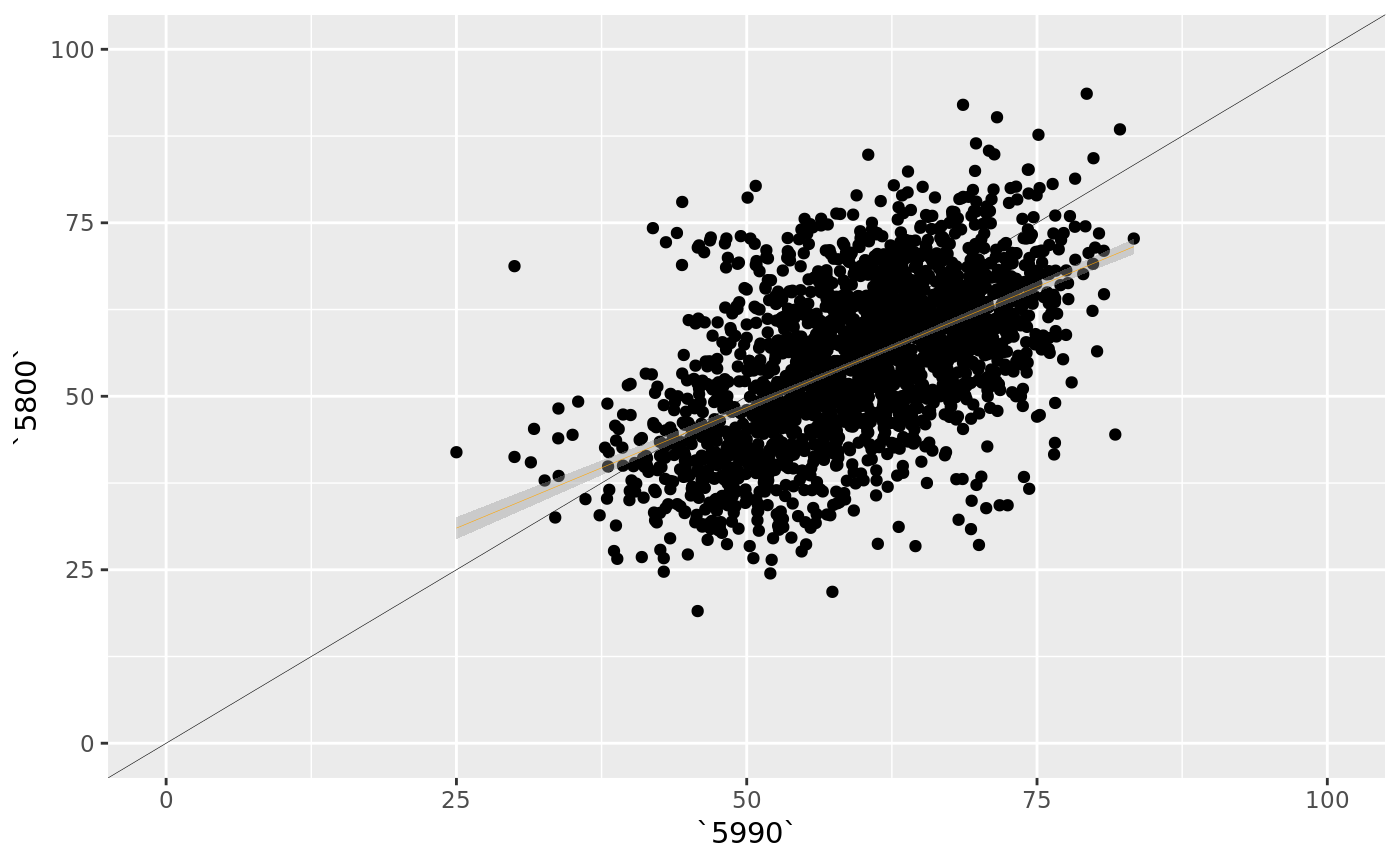
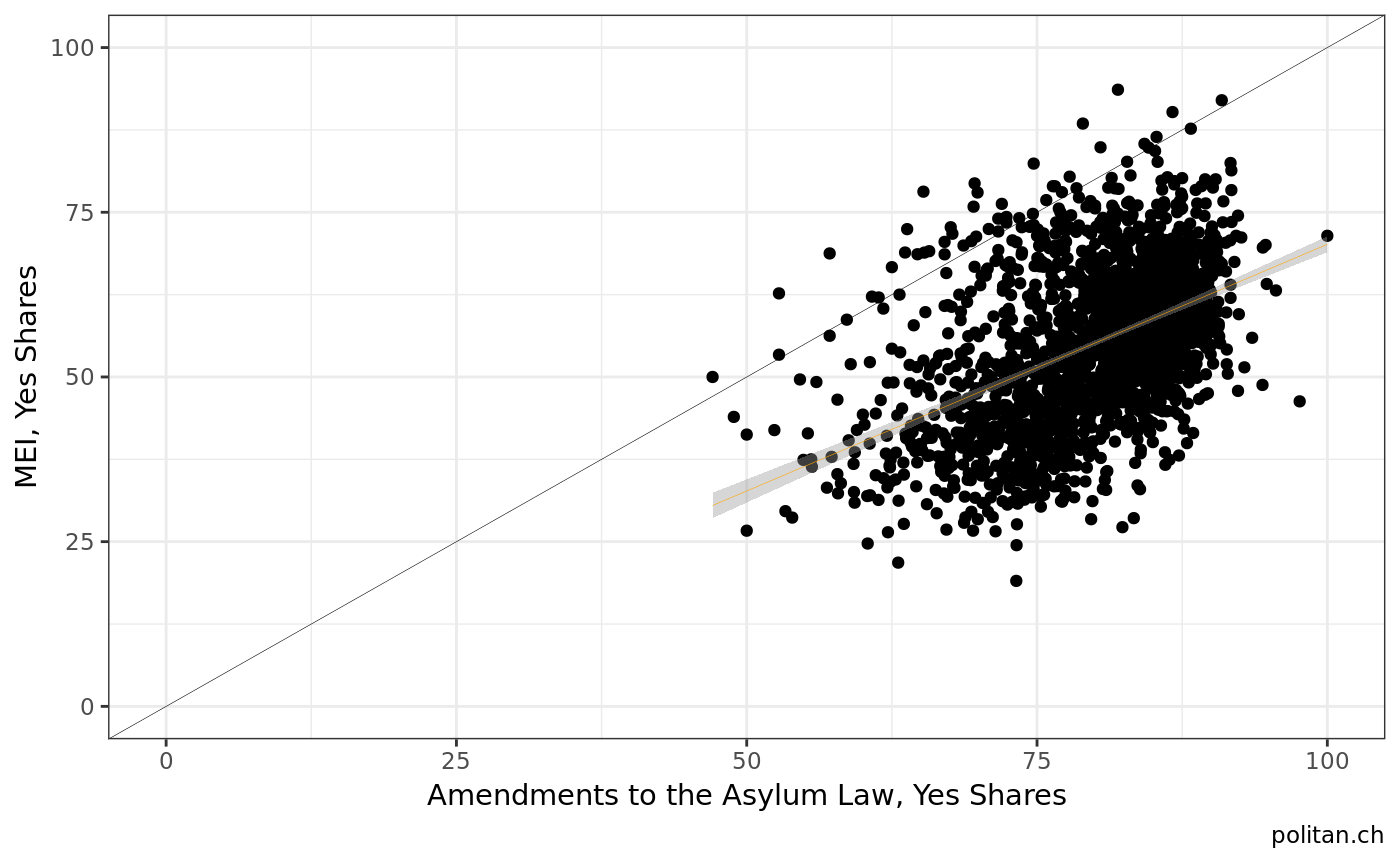
minor corrections

diff --git a/docs/articles/plot_correlations.html b/docs/articles/plot_correlations.html
@@ -43,7 +43,7 @@
       </button>
       <span class="navbar-brand">
         <a class="navbar-link" href="../index.html">swissdd</a>
-        <span class="version label label-default" data-toggle="tooltip" data-placement="bottom" title="Released version">1.0.2</span>
+        <span class="version label label-default" data-toggle="tooltip" data-placement="bottom" title="Released version">1.0.2.9000</span>
       </span>
     </div>
 
@@ -117,8 +117,8 @@
 <h3 class="hasAnchor">
 <a href="#what-other-votes-correlate-with-the-2014-vote-on-immigration-mei" class="anchor"></a>What Other Votes Correlate with the 2014 vote on immigration (mei)?</h3>
 <p>For the sake of illustration we are interested in the result of the 2014 vote on immigration for Swiss municipalities. The initiative was voted upon on 9th of February 2014. There are different ways to find this exact vote. One of them is using the information in the title. An other solution would be to look up the <code>id</code> provided by the FSO.</p>
-<p>First, we invoke the necessary packages and use the function <code>get_nationalvotes</code> to access the data. We further specify the unit of analysis as well as the range</p>
 <p><code><a href="https://rdrr.io/r/base/unique.html">unique(federalvotes$name[grep("Massen", federalvotes$name)])</a></code></p>
+<p>First, we invoke the necessary packages and use the function <code>get_nationalvotes</code> to access the data. We further specify the unit of analysis as well as the range.</p>
 <div class="sourceCode"><pre class="sourceCode r"><code class="sourceCode r"><span class="co"># installation from CRAN (stable)</span>
 <span class="co"># install.packages("swissdd")</span>
 <span class="co"># install.packages("dplyr")</span>
@@ -131,7 +131,7 @@
 <span class="kw"><a href="https://rdrr.io/r/base/library.html">library</a></span>(ggplot2)
 <span class="kw"><a href="https://rdrr.io/r/base/library.html">library</a></span>(tidyr)
 
-<span class="co">#get data from API for the 2010-2019 (feb) </span>
+<span class="co">#get results of all votes between 2010-2019</span>
 federalvotes &lt;-<span class="st"> </span><span class="kw"><a href="../reference/get_nationalvotes.html">get_nationalvotes</a></span>(<span class="dt">geolevel =</span> <span class="st">"municipality"</span>, 
                                   <span class="dt">from_date =</span> <span class="st">"2010-03-07"</span>, 
                                   <span class="dt">to_date =</span> <span class="st">"2019-02-10"</span>)
@@ -149,23 +149,25 @@ simvotes
 <span class="co">#extract names of correlated votes</span>
 ballotnames &lt;-<span class="st"> </span>federalvotes <span class="op">%&gt;%</span>
 <span class="st">  </span>dplyr<span class="op">::</span><span class="kw"><a href="https://dplyr.tidyverse.org/reference/select.html">select</a></span>(name, id, mun_id)<span class="op">%&gt;%</span>
-<span class="st">  </span><span class="kw"><a href="https://dplyr.tidyverse.org/reference/filter.html">filter</a></span>(id<span class="op">%in%</span><span class="kw"><a href="https://rdrr.io/r/base/c.html">c</a></span>(<span class="dv">5800</span>, simvotes[<span class="dv">1</span>,<span class="dv">1</span>]))<span class="op">%&gt;%</span>
+<span class="st">  </span><span class="kw"><a href="https://dplyr.tidyverse.org/reference/filter.html">filter</a></span>(id<span class="op">%in%</span><span class="kw"><a href="https://rdrr.io/r/base/c.html">c</a></span>(<span class="dv">5800</span>, simvotes[<span class="dv">2</span>,<span class="dv">1</span>]))<span class="op">%&gt;%</span>
 <span class="st">  </span><span class="kw"><a href="https://dplyr.tidyverse.org/reference/distinct.html">distinct</a></span>()
 
 <span class="co">#subset for correlated votes</span>
 corrvotes &lt;-<span class="st"> </span>federalvotes <span class="op">%&gt;%</span><span class="st"> </span>
-<span class="st">  </span><span class="kw"><a href="https://dplyr.tidyverse.org/reference/filter.html">filter</a></span>(id<span class="op">%in%</span><span class="kw"><a href="https://rdrr.io/r/base/c.html">c</a></span>(<span class="dv">5800</span>, simvotes[<span class="dv">1</span>,<span class="dv">1</span>]))<span class="op">%&gt;%</span>
+<span class="st">  </span><span class="kw"><a href="https://dplyr.tidyverse.org/reference/filter.html">filter</a></span>(id<span class="op">%in%</span><span class="kw"><a href="https://rdrr.io/r/base/c.html">c</a></span>(<span class="dv">5800</span>, simvotes[<span class="dv">2</span>,<span class="dv">1</span>]))<span class="op">%&gt;%</span>
 <span class="st">  </span>dplyr<span class="op">::</span><span class="kw"><a href="https://dplyr.tidyverse.org/reference/select.html">select</a></span>(id, jaStimmenInProzent, mun_id)<span class="op">%&gt;%</span>
 <span class="st">  </span><span class="kw"><a href="https://dplyr.tidyverse.org/reference/mutate.html">mutate</a></span>(<span class="dt">id=</span><span class="kw"><a href="https://rdrr.io/r/base/character.html">as.character</a></span>(id))
 
 <span class="co">#plot</span>
 <span class="kw"><a href="https://tidyr.tidyverse.org/reference/spread.html">spread</a></span>(corrvotes , id, jaStimmenInProzent)<span class="op">%&gt;%</span>
-<span class="st">  </span><span class="kw"><a href="https://ggplot2.tidyverse.org/reference/ggplot.html">ggplot</a></span>(<span class="kw"><a href="https://ggplot2.tidyverse.org/reference/aes.html">aes</a></span>(<span class="dt">y=</span><span class="st">`</span><span class="dt">5800</span><span class="st">`</span>, <span class="dt">x=</span><span class="st">`</span><span class="dt">5990</span><span class="st">`</span>))<span class="op">+</span>
+<span class="st">  </span><span class="kw"><a href="https://ggplot2.tidyverse.org/reference/ggplot.html">ggplot</a></span>(<span class="kw"><a href="https://ggplot2.tidyverse.org/reference/aes.html">aes</a></span>(<span class="dt">y=</span><span class="st">`</span><span class="dt">5800</span><span class="st">`</span>, <span class="dt">x=</span><span class="st">`</span><span class="dt">5710</span><span class="st">`</span>))<span class="op">+</span>
 <span class="st">  </span><span class="kw"><a href="https://ggplot2.tidyverse.org/reference/geom_point.html">geom_point</a></span>()<span class="op">+</span>
 <span class="st">  </span><span class="kw"><a href="https://ggplot2.tidyverse.org/reference/scale_continuous.html">scale_y_continuous</a></span>(<span class="dt">limits=</span><span class="kw"><a href="https://rdrr.io/r/base/c.html">c</a></span>(<span class="dv">0</span>,<span class="dv">100</span>))<span class="op">+</span>
 <span class="st">  </span><span class="kw"><a href="https://ggplot2.tidyverse.org/reference/scale_continuous.html">scale_x_continuous</a></span>(<span class="dt">limits=</span><span class="kw"><a href="https://rdrr.io/r/base/c.html">c</a></span>(<span class="dv">0</span>,<span class="dv">100</span>))<span class="op">+</span>
 <span class="st">  </span><span class="kw"><a href="https://ggplot2.tidyverse.org/reference/geom_abline.html">geom_abline</a></span>(<span class="dt">intercept =</span> <span class="dv">0</span>, <span class="dt">slope=</span><span class="dv">1</span>,  <span class="dt">size=</span>.<span class="dv">1</span>)<span class="op">+</span>
-<span class="st">  </span><span class="kw"><a href="https://ggplot2.tidyverse.org/reference/geom_smooth.html">geom_smooth</a></span>(<span class="dt">method=</span><span class="st">"lm"</span>, <span class="dt">size=</span>.<span class="dv">1</span>, <span class="dt">color=</span><span class="st">"orange"</span>)</code></pre></div>
+<span class="st">  </span><span class="kw"><a href="https://ggplot2.tidyverse.org/reference/geom_smooth.html">geom_smooth</a></span>(<span class="dt">method=</span><span class="st">"lm"</span>, <span class="dt">size=</span>.<span class="dv">1</span>, <span class="dt">color=</span><span class="st">"orange"</span>)<span class="op">+</span>
+<span class="st">  </span><span class="kw"><a href="https://ggplot2.tidyverse.org/reference/labs.html">labs</a></span>(<span class="dt">y=</span><span class="st">"MEI, Yes Shares"</span>, <span class="dt">x=</span><span class="st">"Amendments to the Asylum Law, Yes Shares"</span>, <span class="dt">caption=</span><span class="st">"politan.ch"</span>)<span class="op">+</span>
+<span class="st">  </span><span class="kw"><a href="https://ggplot2.tidyverse.org/reference/ggtheme.html">theme_bw</a></span>()</code></pre></div>
 <p><img src="plot_correlations_files/figure-html/unnamed-chunk-2-1.png" width="700"></p>
 </div>
   </div>

diff --git a/docs/index.html b/docs/index.html
@@ -43,7 +43,7 @@
       </button>
       <span class="navbar-brand">
         <a class="navbar-link" href="index.html">swissdd</a>
-        <span class="version label label-default" data-toggle="tooltip" data-placement="bottom" title="Released version">1.0.2</span>
+        <span class="version label label-default" data-toggle="tooltip" data-placement="bottom" title="Released version">1.0.2.9000</span>
       </span>
     </div>
 
@@ -118,7 +118,7 @@
 <li>districts</li>
 <li>municipalities</li>
 </ul>
-<p>The package wraps the real time data on vote Sundays. As soon as the ballot close (from 12:00 on), the datastream is continuosly updated, until the data for all municipalities is complete and the final results are available. Additionally, it allows to access the archive and to retrieve the <em>harmonized</em> results of national votes since 1981.</p>
+<p>The package wraps the real time data on vote Sundays. As soon as the ballots close (from 12:00 on), the datastream is continuosly updated, until the data for all municipalities is complete and the final results are available. Additionally, it allows to access the archive and to retrieve the <em>harmonized</em> results of national votes since 1981.</p>
 <p>Additionally, with the newest version available via CRAN it is now possible to retrieve data from the <a href="https://swissvotes.ch/page/home">swissvotes-database</a>, the most comprehensive database on swiss popular votes. Due to the integration of this additional data source there is a <strong>breaking change</strong>:</p>
 <ol>
 <li><p>The <code>get_swissvotes</code>-function has been modified in its use. It now allows to retrieve the data from the <a href="https://swissvotes.ch/page/home">swissvotes-database</a>.</p></li>

diff --git a/docs/articles/index.html b/docs/articles/index.html
@@ -80,7 +80,7 @@
       </button>
       <span class="navbar-brand">
         <a class="navbar-link" href="../index.html">swissdd</a>
-        <span class="version label label-default" data-toggle="tooltip" data-placement="bottom" title="Released version">1.0.2</span>
+        <span class="version label label-default" data-toggle="tooltip" data-placement="bottom" title="Released version">1.0.2.9000</span>
       </span>
     </div>
 

diff --git a/docs/articles/plot_voteshares.html b/docs/articles/plot_voteshares.html
@@ -43,7 +43,7 @@
       </button>
       <span class="navbar-brand">
         <a class="navbar-link" href="../index.html">swissdd</a>
-        <span class="version label label-default" data-toggle="tooltip" data-placement="bottom" title="Released version">1.0.2</span>
+        <span class="version label label-default" data-toggle="tooltip" data-placement="bottom" title="Released version">1.0.2.9000</span>
       </span>
     </div>
 

diff --git a/docs/articles/predict_voteshare.html b/docs/articles/predict_voteshare.html
@@ -43,7 +43,7 @@
       </button>
       <span class="navbar-brand">
         <a class="navbar-link" href="../index.html">swissdd</a>
-        <span class="version label label-default" data-toggle="tooltip" data-placement="bottom" title="Released version">1.0.2</span>
+        <span class="version label label-default" data-toggle="tooltip" data-placement="bottom" title="Released version">1.0.2.9000</span>
       </span>
     </div>
 

diff --git a/docs/articles/use_SwissvotesDB.html b/docs/articles/use_SwissvotesDB.html
@@ -43,7 +43,7 @@
       </button>
       <span class="navbar-brand">
         <a class="navbar-link" href="../index.html">swissdd</a>
-        <span class="version label label-default" data-toggle="tooltip" data-placement="bottom" title="Released version">1.0.2</span>
+        <span class="version label label-default" data-toggle="tooltip" data-placement="bottom" title="Released version">1.0.2.9000</span>
       </span>
     </div>
 

diff --git a/docs/authors.html b/docs/authors.html
@@ -80,7 +80,7 @@
       </button>
       <span class="navbar-brand">
         <a class="navbar-link" href="index.html">swissdd</a>
-        <span class="version label label-default" data-toggle="tooltip" data-placement="bottom" title="Released version">1.0.2</span>
+        <span class="version label label-default" data-toggle="tooltip" data-placement="bottom" title="Released version">1.0.2.9000</span>
       </span>
     </div>
 

diff --git a/index.md b/index.md
@@ -17,7 +17,7 @@
 * districts
 * municipalities
 
-The package wraps the real time data on vote Sundays. As soon as the ballot close (from 12:00 on), the datastream is continuosly updated, until the data for all municipalities is complete and the final results are available. Additionally, it allows to access the archive and to retrieve the *harmonized* results of national votes since 1981.
+The package wraps the real time data on vote Sundays. As soon as the ballots close (from 12:00 on), the datastream is continuosly updated, until the data for all municipalities is complete and the final results are available. Additionally, it allows to access the archive and to retrieve the *harmonized* results of national votes since 1981.
 
 Additionally, with the newest version available via CRAN it is now possible to retrieve data from the [swissvotes-database](https://swissvotes.ch/page/home), the most  comprehensive database on swiss popular votes. Due to the integration of this additional data source there is a __breaking change__: 
 
